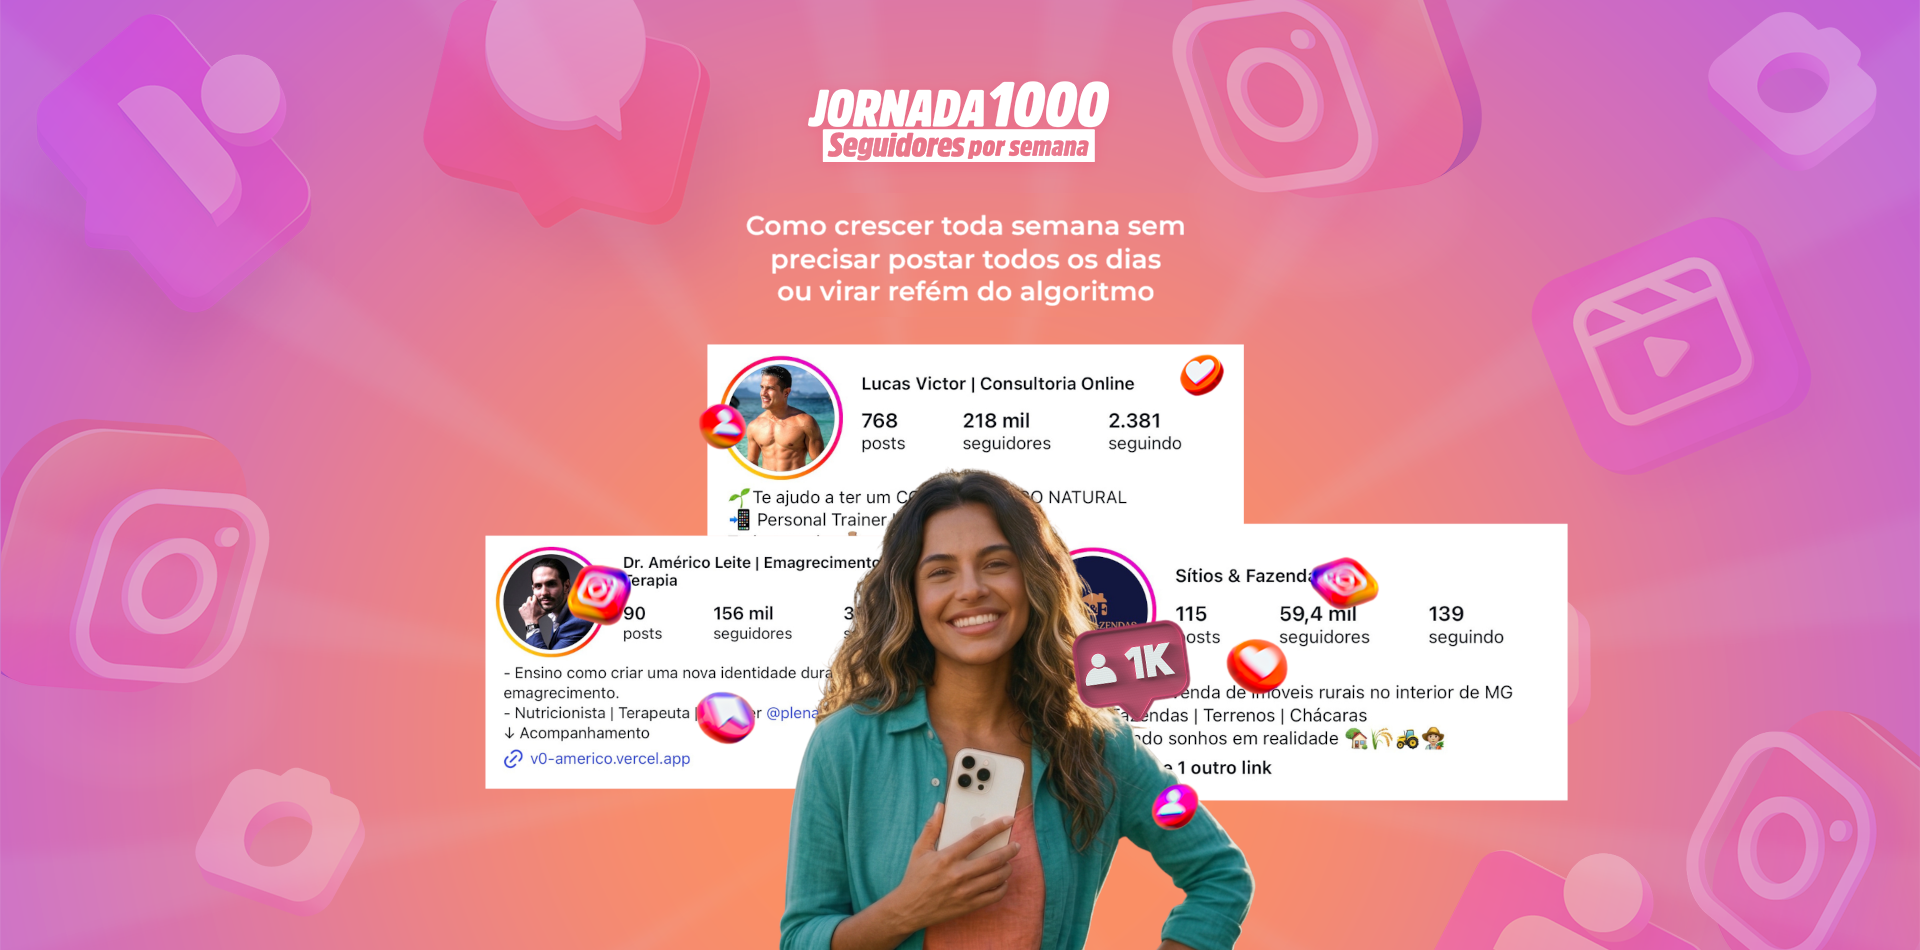
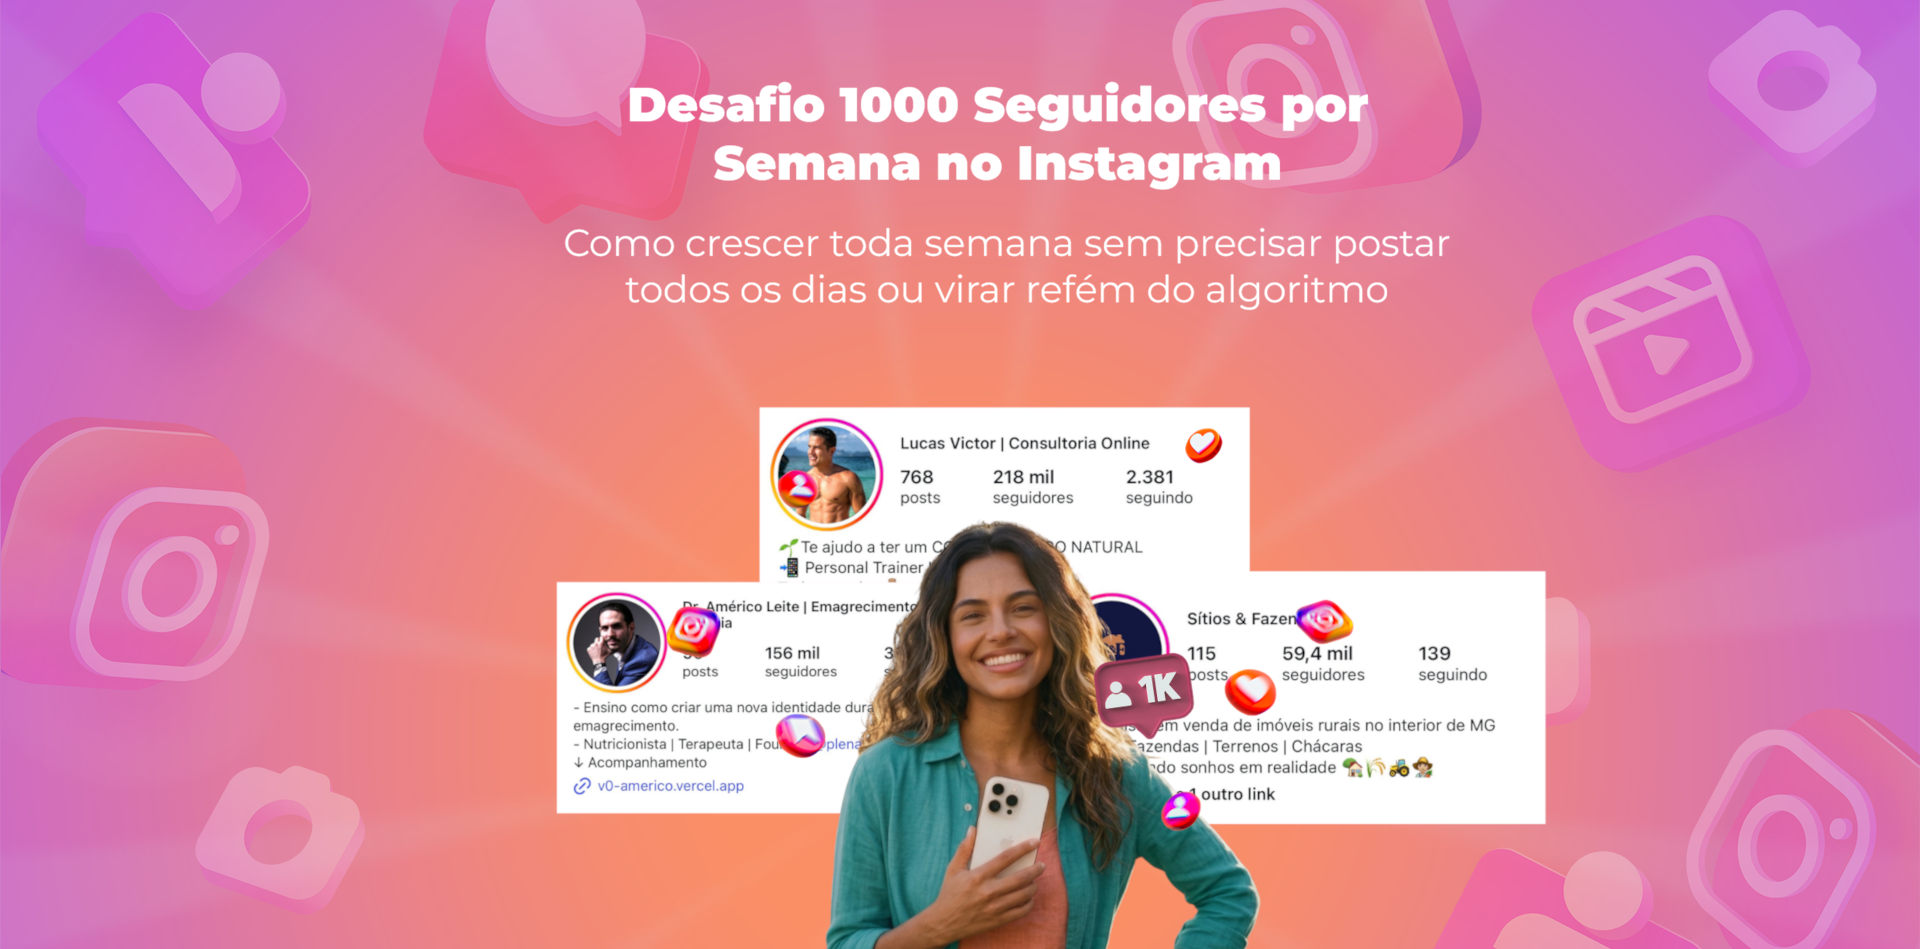
hero

Changed region(s): [[0.25, 0.0, 0.8438, 1.0], [0.8438, 0.275, 0.875, 0.3361]]

diff --git a/index.html b/index.html
@@ -3,10 +3,11 @@
   <head>
     <meta charset="utf-8" />
     <meta name="viewport" content="width=device-width, initial-scale=1" />
-    <title>Jornada 1000 Seguidores por Semana</title>
+    <title>Desafio 1000 Seguidores por Semana no Instagram</title>
     <meta
       name="description"
-      content="Landing page da Jornada 1000 (paidorec.com/jornada) — esqueleto inicial"
+      content="Desafio 1000 Seguidores por Semana no Instagram. Como crescer toda semana sem precisar postar todos os dias
+ou virar refém do algoritmo"
     />
     <!-- Tailwind CDN -->
     <script src="https://cdn.tailwindcss.com"></script>
@@ -127,7 +128,7 @@
           <img
             src="./img/hero.webp"
             alt="Fundo da hero"
-            class="absolute inset-0 h-full w-full object-cover"
+            class="absolute inset-0 h-full w-full object-cover object-top"
           />
         </picture>
         <div class="absolute inset-0"></div>
@@ -151,7 +152,7 @@
           <header class="text-center mb-8">
             <h2 class="text-xl sm:text-2xl md:text-3xl max-w-3xl mx-auto">
               Veja o crescimento de alunos que saíram do zero e fizeram a
-              <span class="font-bold">Jornada 1000 por semana!</span>
+              <span class="font-bold">Desafio 1000 por semana no Instagram!</span>
             </h2>
           </header>
 
@@ -273,6 +274,16 @@
                 </svg>
               </button>
             </div>
+          </div>
+
+          <div class="flex justify-center pb-12 sm:pb-16 fade-in-element">
+            <a
+              id="pay1"
+              href="https://pay.hotmart.com/S101372839T?bid=1755269589871"
+              class="inline-block bg-green-600 hover:bg-green-700 text-white text-lg font-semibold py-3 px-8 rounded-full shadow-lg transition duration-300"
+            >
+              Quero fazer parte
+            </a>
           </div>
         </div>
       </section>
@@ -397,7 +408,7 @@
 
       <!-- ============ 4) MOTIVOS ============ -->
       <section id="motivos" class="relative bg-white py-16 sm:py-0">
-        <div class="container mx-auto max-w-6xl px-4">
+        <div class="container mx-auto max-w-4xl px-4">
           <header class="mb-6">
             <h2 class="text-2xl md:text-3xl text-center text-zinc-600">
               Isso acontece por <span class="font-bold">4 motivos</span>:
@@ -406,7 +417,7 @@
 
           <!-- GRID (2 rows x 2 cards em telas grandes) -->
           <div
-            class="grid grid-cols-1 sm:grid-cols-2 gap-4 md:gap-6"
+            class="grid grid-cols-1 sm:grid-cols-2 gap-4 md:gap-5"
           >
             <!-- 4 cards (apenas imagens) -->
             <img
@@ -546,15 +557,15 @@
             <h2
               class="text-lg sm:text-xl md:text-2xl max-w-3xl mx-auto font-bold text-red-700"
             >
-              Veja tudo que você vai receber na jornada 1000 seguidores por
-              semana
+              Veja tudo que você vai receber no Desafio 1000 seguidores por
+              semana no Instagram
             </h2>
           </header>
 
           <div>
             <img
               src="./img/capas.webp"
-              alt="Conteúdo e módulos do curso Jornada 1000 seguidores"
+              alt="Conteúdo e módulos do curso Desafio 1000 seguidores no Instagram"
               class="h-auto w-full"
             />
           </div>
@@ -593,7 +604,7 @@
                 <h2
                   class="text-2xl md:text-3xl font-extrabold drop-shadow mb-6"
                 >
-                  A Jornada 1000 seguidores por semana é para você que:
+                  O Desafio 1000 seguidores por semana no Instagram é para você que:
                 </h2>
                 <ul class="space-y-4">
                   <li class="flex items-start gap-3">
@@ -648,7 +659,7 @@
                 </ul>
                 <p class="mt-6 text-base md:text-lg">
                   Se você se enxerga em pelo menos
-                  <strong>2 dos itens acima</strong>, a Jornada é pra você.
+                  <strong>2 dos itens acima</strong>, o Desafio é pra você.
                 </p>
               </div>
 
@@ -841,7 +852,7 @@
                   href="https://pay.hotmart.com/S101372839T?bid=1755269589871"
                   class="inline-block mt-6 bg-green-600 hover:bg-green-700 text-white text-lg font-semibold py-3 px-8 rounded-full transition duration-300"
                 >
-                  Sim, eu quero a Jornada!
+                  Sim, eu quero o Desafio!
                 </a>
               </div>
             </div>
@@ -873,7 +884,7 @@
               >
                 01. Continuar postando sem rumo e vendo os mesmos resultados
                 fracos.<br /><br />
-                02. Ou <span class="text-red-700">entrar para a Jornada</span> e
+                02. Ou <span class="text-red-700">entrar para o Desafio</span> e
                 ver seu perfil crescer com estratégia e leveza.
               </p>
             </header>
@@ -905,7 +916,7 @@
               <h2
                 class="text-white text-xl sm:text-2xl md:text-3xl font-extrabold drop-shadow"
               >
-                Eu sou paidorec, criador da Jornada 1000 Seguidores por Semana
+                Eu sou paidorec, criador do Desafio 1000 Seguidores por Semana no Instagram
               </h2>
               <p class="mt-8 text-white/90 text-base sm:text-lg md:text-xl">
                 Já ajudei milhares de pessoas a crescerem seus perfis com método
@@ -959,8 +970,8 @@
               <!-- Texto e preço -->
               <div class="flex-1 text-center">
                 <p class="mt-3 text-white/90 text-lg">
-                  Comece agora a<br />
-                  Jornada 1000 Seguidores por Semana
+                  Comece agora o<br />
+                  Desafio 1000 Seguidores por Semana Instagram
                 </p>
                 <h2
                   class="mt-3 text-white text-3xl md:text-4xl font-bold drop-shadow"
@@ -978,7 +989,7 @@
                   href="https://pay.hotmart.com/S101372839T?bid=1755269589871"
                   class="inline-block mt-6 bg-green-600 hover:bg-green-700 text-white text-lg font-semibold py-3 px-8 rounded-full transition duration-300"
                 >
-                  Sim, eu quero a Jornada!
+                  Sim, eu quero o Desafio!
                 </a>
               </div>
             </div>
@@ -995,8 +1006,12 @@
               <div
                 class="flex-1 flex flex-col items-center md:items-start gap-2"
               >
-                <img src="./img/logo.webp" alt="Logo" class="w-48 md:w-64" />
-                <p class="text-zinc-700 text-sm mt-2 ml-4 text-center">
+                <p
+                  class="max-w-xs text-center md:text-left text-xl md:text-2xl font-extrabold leading-tight text-white"
+                >
+                  Desafio 1000 Seguidores por Semana no Instagram
+                </p>
+                <p class="text-zinc-700 text-sm mt-2 text-center md:text-left">
                   Copyright © 2025<br />Todos os Direitos Reservados.
                 </p>
               </div>
@@ -1055,7 +1070,7 @@
                     </summary>
                     <div class="mt-2 pl-4 text-zinc-700">
                       Acesso vitalício ao conteúdo e a todas as futuras
-                      atualizações da Jornada.
+                      atualizações do Desafio.
                     </div>
                   </details>
 
